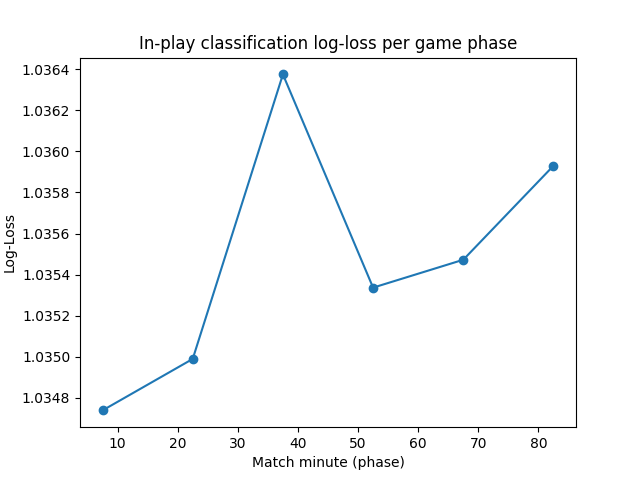
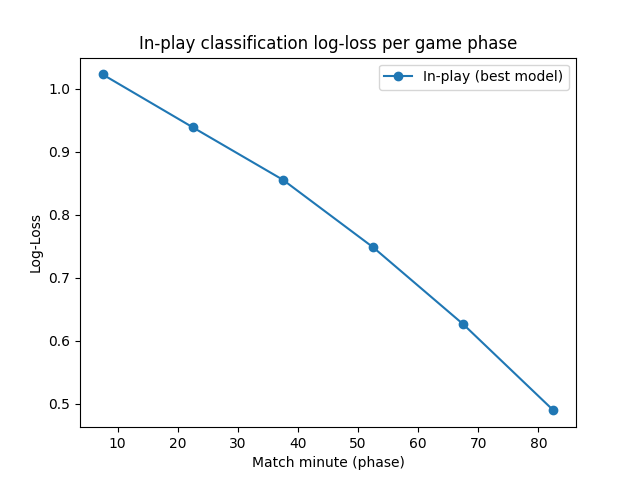
Fixed some minor bugs related to evaluation and best_model specification.

diff --git a/Phase_2.py b/Phase_2.py
@@ -379,40 +379,41 @@ for name, (model, param_grid) in reg_models.items():
     res = evaluate_regressor(best_model, X_pre_test, y_pre_test_reg)
     res['model'] = name
     results_reg.append(res)
+# ======================================================================
+# IN-PLAY LOOPS + PART 7
+# ======================================================================
 
-# In-play classification (model 3)
-# We'll train on snapshot data, but we must respect match-level splitting.
-# Already done by using separate train/val/test snapshots.
-# In-play classification loop (replace the existing one)
+# -------------------- In-Play Classification Loop --------------------
+best_inplay_clf = None
+best_inplay_reg = None
+best_inplay_clf_score = np.inf   # validation log-loss (lower is better)
+best_inplay_reg_score = np.inf   # validation MAE (lower is better)
+
 for name, (model, param_grid) in clf_models.items():
     print(f"Training {name} (in-play classification)...")
     if name == 'IFX-XGBoost':
         model = IFX_XGBoost(random_state=42, n_iterations=3)
         model.fit(X_snap_train, y_snap_train_cls, X_snap_val, y_snap_val_cls)
         best_model = model
+        # Compute validation log-loss for IFX
+        val_probs = model.predict_proba(X_snap_val)
+        val_score = log_loss(y_snap_val_cls, val_probs)
     elif name in ['KernelSVM', 'KernelRidge']:
-        # Use approximate kernel for large dataset
         print(f"   ***Using Nystroem approximation for {name} (large dataset)***")
-        if name == 'KernelSVM':
-            approx_model = make_approx_kernel_pipeline('classification')
-        else:
-            # For KernelRidge we also use approximation
-            approx_model = make_approx_kernel_pipeline('classification')
-        # We'll use a simple grid for the approximate model (SGDClassifier)
-        param_grid_adj = {
-            'clf__alpha': [0.0001, 0.001, 0.01],
-            'kernel_approx__n_components': [50, 100, 200]
-        }
         pipe = Pipeline([
             ('scaler', StandardScaler()),
             ('kernel_approx', Nystroem(kernel='rbf', random_state=42)),
             ('clf', SGDClassifier(loss='log_loss', random_state=42, max_iter=1000, tol=1e-3))
         ])
+        param_grid_adj = {
+            'clf__alpha': [0.0001, 0.001, 0.01],
+            'kernel_approx__n_components': [50, 100, 200]
+        }
         gs = GridSearchCV(pipe, param_grid_adj, cv=3, scoring='neg_log_loss', n_jobs=-1, verbose=0)
         gs.fit(X_snap_train, y_snap_train_cls)
         best_model = gs.best_estimator_
+        val_score = -gs.best_score_   # because scoring is neg_log_loss
     else:
-        # Non‑kernel models: use PF‑SMOTE pipeline as before
         pipe = create_clf_pipeline(model, use_pf_smote=True, scaler=True)
         param_grid_adj = {}
         for k, v in param_grid.items():
@@ -420,7 +421,12 @@ for name, (model, param_grid) in clf_models.items():
         gs = GridSearchCV(pipe, param_grid_adj, cv=3, scoring='neg_log_loss', n_jobs=-1, verbose=0)
         gs.fit(X_snap_train, y_snap_train_cls)
         best_model = gs.best_estimator_
-    # Evaluate
+        val_score = -gs.best_score_
+    # Store if best so far
+    if val_score < best_inplay_clf_score:
+        best_inplay_clf_score = val_score
+        best_inplay_clf = best_model
+    # Evaluate on test
     res = evaluate_classifier(best_model, X_snap_train, y_snap_train_cls,
                               X_snap_test, y_snap_test_cls,
                               model_name=name, task='inplay_cls',
@@ -428,17 +434,17 @@ for name, (model, param_grid) in clf_models.items():
     res['model'] = name
     results_cls.append(res)
 
-# In-play regression
-# In-play regression loop
+# -------------------- In-Play Regression Loop --------------------
 for name, (model, param_grid) in reg_models.items():
     print(f"Training {name} (in-play regression)...")
     if name == 'IFX-XGBoost':
         model = IFX_XGBoost(random_state=42, n_iterations=3, objective='reg:squarederror')
         model.fit(X_snap_train, y_snap_train_reg, X_snap_val, y_snap_val_reg)
         best_model = model
+        val_preds = model.predict(X_snap_val)
+        val_score = mean_absolute_error(y_snap_val_reg, val_preds)
     elif name in ['KernelRidge', 'KernelSVR']:
         print(f"   ***Using Nystroem approximation for {name} (large dataset)***")
-        # Build approximate pipeline for regression
         pipe = Pipeline([
             ('scaler', StandardScaler()),
             ('kernel_approx', Nystroem(kernel='rbf', random_state=42)),
@@ -451,8 +457,8 @@ for name, (model, param_grid) in reg_models.items():
         gs = GridSearchCV(pipe, param_grid_adj, cv=3, scoring='neg_mean_absolute_error', n_jobs=-1, verbose=0)
         gs.fit(X_snap_train, y_snap_train_reg)
         best_model = gs.best_estimator_
+        val_score = -gs.best_score_
     else:
-        # Non‑kernel models: standard pipeline with scaling
         pipe = Pipeline([('scaler', StandardScaler()), ('reg', model)])
         param_grid_adj = {}
         for k, v in param_grid.items():
@@ -460,6 +466,12 @@ for name, (model, param_grid) in reg_models.items():
         gs = GridSearchCV(pipe, param_grid_adj, cv=3, scoring='neg_mean_absolute_error', n_jobs=-1, verbose=0)
         gs.fit(X_snap_train, y_snap_train_reg)
         best_model = gs.best_estimator_
+        val_score = -gs.best_score_
+    # Store if best so far
+    if val_score < best_inplay_reg_score:
+        best_inplay_reg_score = val_score
+        best_inplay_reg = best_model
+    # Evaluate on test
     res = evaluate_regressor(best_model, X_snap_test, y_snap_test_reg)
     res['model'] = name
     results_reg.append(res)
@@ -474,10 +486,13 @@ print(df_reg_results)
 
 # PART 6 Done (all models trained and evaluated)
 
-# -------------------- 7. In-Play Evaluation: Metric vs Minute & Per-Phase Calibration --------------------
+# ======================================================================
+# PART 7: IN-PLAY EVALUATION (USING THE BEST MODELS)
+# ======================================================================
+
 def eval_per_minute_cls(model, X, y, times):
     """Compute log-loss per 15-minute phase for classification."""
-    bins = np.arange(0, 95, 15)  # 0-15, 15-30, ..., 75-90+
+    bins = np.arange(0, 95, 15)
     metrics = []
     for i in range(len(bins)-1):
         mask = (times >= bins[i]) & (times < bins[i+1])
@@ -502,38 +517,144 @@ def eval_per_minute_reg(model, X, y, times):
     return bins[:-1], metrics
 
 # ----------------------------------------------------------------------
-# Use the best models from the in-play training loops (if you stored them)
-# or retrain simple ones (we'll retrain for clarity).
+# 7a. Per-phase metrics for the best in-play models
 # ----------------------------------------------------------------------
-
-# Retrain simple XGBoost models (you can also use the best models from earlier)
-best_clf = XGBClassifier(random_state=42, n_estimators=100, learning_rate=0.1)
-best_clf.fit(X_snap_train, y_snap_train_cls)
-
-best_reg = XGBRegressor(random_state=42, n_estimators=100, learning_rate=0.1)
-best_reg.fit(X_snap_train, y_snap_train_reg)
+# Use the best models stored during loops (or fallback to retrained XGBoost)
+if best_inplay_clf is None:
+    # Fallback: retrain a simple XGBoost (should not happen)
+    best_inplay_clf = XGBClassifier(random_state=42, n_estimators=100, learning_rate=0.1)
+    best_inplay_clf.fit(X_snap_train, y_snap_train_cls)
+if best_inplay_reg is None:
+    best_inplay_reg = XGBRegressor(random_state=42, n_estimators=100, learning_rate=0.1)
+    best_inplay_reg.fit(X_snap_train, y_snap_train_reg)
 
 # Log-loss per phase (classification)
-bins, ll_per_phase = eval_per_minute_cls(best_clf, X_snap_test, y_snap_test_cls, snap_times_test)
+bins, ll_per_phase = eval_per_minute_cls(best_inplay_clf, X_snap_test, y_snap_test_cls, snap_times_test)
 plt.figure()
-plt.plot(bins + 7.5, ll_per_phase, marker='o')
+plt.plot(bins + 7.5, ll_per_phase, marker='o', label='In-play (best model)')
 plt.xlabel('Match minute (phase)')
 plt.ylabel('Log-Loss')
 plt.title('In-play classification log-loss per game phase')
+plt.legend()
 plt.savefig(os.path.join(FIGURES_DIR, 'inplay_logloss_per_phase.png'))
 plt.close()
 
 # MAE per phase (regression)
-bins, mae_per_phase = eval_per_minute_reg(best_reg, X_snap_test, y_snap_test_reg, snap_times_test)
+bins, mae_per_phase = eval_per_minute_reg(best_inplay_reg, X_snap_test, y_snap_test_reg, snap_times_test)
 plt.figure()
-plt.plot(bins + 7.5, mae_per_phase, marker='o')
+plt.plot(bins + 7.5, mae_per_phase, marker='o', label='In-play (best model)')
 plt.xlabel('Match minute (phase)')
 plt.ylabel('MAE')
 plt.title('In-play regression MAE per game phase')
+plt.legend()
 plt.savefig(os.path.join(FIGURES_DIR, 'inplay_mae_per_phase.png'))
 plt.close()
 
-print("Part 7 done: per‑phase evaluation plots saved.")
+# ----------------------------------------------------------------------
+# 7b. Frozen pre-match baseline (using the best pre-match model)
+# ----------------------------------------------------------------------
+# Train a pre-match model (we can use XGBoost with default params)
+pre_model = XGBClassifier(random_state=42, n_estimators=100, learning_rate=0.1)
+pre_model.fit(X_pre_train, y_pre_train_cls)
+pre_reg = XGBRegressor(random_state=42, n_estimators=100, learning_rate=0.1)
+pre_reg.fit(X_pre_train, y_pre_train_reg)
+
+# Map each snapshot's match_id to its pre-match feature vector
+# Use test_pre to get the features
+test_pre_feat = test_pre[pre_feat_cols].values
+test_pre_ids = test_pre['match_id'].values
+pre_feat_dict = dict(zip(test_pre_ids, test_pre_feat))
+
+snap_ids = test_snap['match_id'].values
+pre_feat_for_snap = np.array([pre_feat_dict[mid] for mid in snap_ids])
+
+# Pre-match predictions (probabilities and margin)
+pre_prob = pre_model.predict_proba(pre_feat_for_snap)
+pre_margin = pre_reg.predict(pre_feat_for_snap)
+
+# Compute log-loss per phase for pre-match baseline
+def eval_per_minute_probs(probs, y, times):
+    bins = np.arange(0, 95, 15)
+    metrics = []
+    for i in range(len(bins)-1):
+        mask = (times >= bins[i]) & (times < bins[i+1])
+        if np.sum(mask) == 0:
+            metrics.append(np.nan)
+        else:
+            metrics.append(log_loss(y[mask], probs[mask]))
+    return bins[:-1], metrics
+
+bins, ll_pre = eval_per_minute_probs(pre_prob, y_snap_test_cls, snap_times_test)
+
+# Plot both curves (in-play vs frozen pre-match)
+plt.figure()
+plt.plot(bins + 7.5, ll_per_phase, marker='o', label='In-play (best model)')
+plt.plot(bins + 7.5, ll_pre, marker='s', label='Frozen pre-match')
+plt.xlabel('Match minute (phase)')
+plt.ylabel('Log-Loss')
+plt.title('In-play classification: In-play vs Frozen Pre-match')
+plt.legend()
+plt.savefig(os.path.join(FIGURES_DIR, 'inplay_vs_pre_logloss.png'))
+plt.close()
+
+# For regression, compute MAE per phase for pre-match
+def eval_per_minute_preds(preds, y, times):
+    bins = np.arange(0, 95, 15)
+    metrics = []
+    for i in range(len(bins)-1):
+        mask = (times >= bins[i]) & (times < bins[i+1])
+        if np.sum(mask) == 0:
+            metrics.append(np.nan)
+        else:
+            metrics.append(mean_absolute_error(y[mask], preds[mask]))
+    return bins[:-1], metrics
+
+bins, mae_pre = eval_per_minute_preds(pre_margin, y_snap_test_reg, snap_times_test)
+
+plt.figure()
+plt.plot(bins + 7.5, mae_per_phase, marker='o', label='In-play (best model)')
+plt.plot(bins + 7.5, mae_pre, marker='s', label='Frozen pre-match')
+plt.xlabel('Match minute (phase)')
+plt.ylabel('MAE')
+plt.title('In-play regression: In-play vs Frozen Pre-match')
+plt.legend()
+plt.savefig(os.path.join(FIGURES_DIR, 'inplay_vs_pre_mae.png'))
+plt.close()
+
+# ----------------------------------------------------------------------
+# 7c. Reliability diagrams for the best classification model
+# ----------------------------------------------------------------------
+from sklearn.calibration import calibration_curve
+
+def plot_reliability_diagram(y_true, y_prob, model_name, task, n_bins=10):
+    fig, axes = plt.subplots(1, y_prob.shape[1], figsize=(4*y_prob.shape[1], 4))
+    if y_prob.shape[1] == 1:
+        axes = [axes]
+    for i, ax in enumerate(axes):
+        fraction_of_positives, mean_predicted_value = calibration_curve(
+            (y_true == i).astype(int), y_prob[:, i], n_bins=n_bins
+        )
+        ax.plot(mean_predicted_value, fraction_of_positives, "s-", label="Model")
+        ax.plot([0, 1], [0, 1], "k--", label="Perfect")
+        ax.set_xlabel("Mean predicted probability")
+        ax.set_ylabel("Fraction of positives")
+        ax.set_title(f"Class {i}")
+        ax.legend()
+    plt.suptitle(f"Reliability diagram – {model_name} ({task})")
+    plt.savefig(os.path.join(FIGURES_DIR, f'reliability_{model_name}_{task}.png'))
+    plt.close()
+
+# Get probabilities from the best in-play classifier on test set
+best_probs = best_inplay_clf.predict_proba(X_snap_test)
+plot_reliability_diagram(y_snap_test_cls, best_probs, 
+                         model_name='Best In-play Classifier', task='inplay')
+
+# Also for the pre-match classifier (optional)
+pre_probs = pre_model.predict_proba(X_pre_test)
+plot_reliability_diagram(y_pre_test_cls, pre_probs,
+                         model_name='Best Pre-match Classifier', task='pre')
+
+print("Part 7 done: per-phase evaluation, frozen baseline comparison, and reliability diagrams saved.")
 
 # -------------------- 8. Compute Cost & Kernel Scaling Analysis --------------------
 # We'll measure wall-clock time and peak memory for each model on the full training set.
